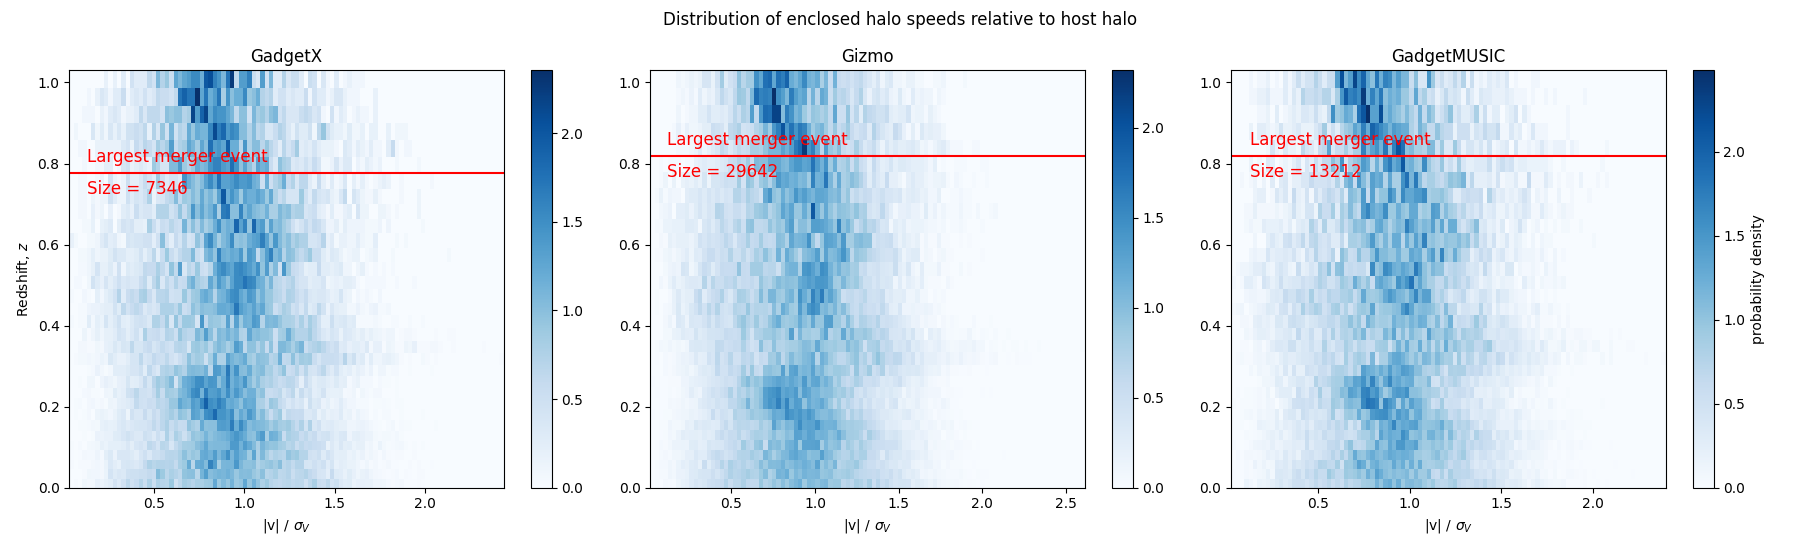
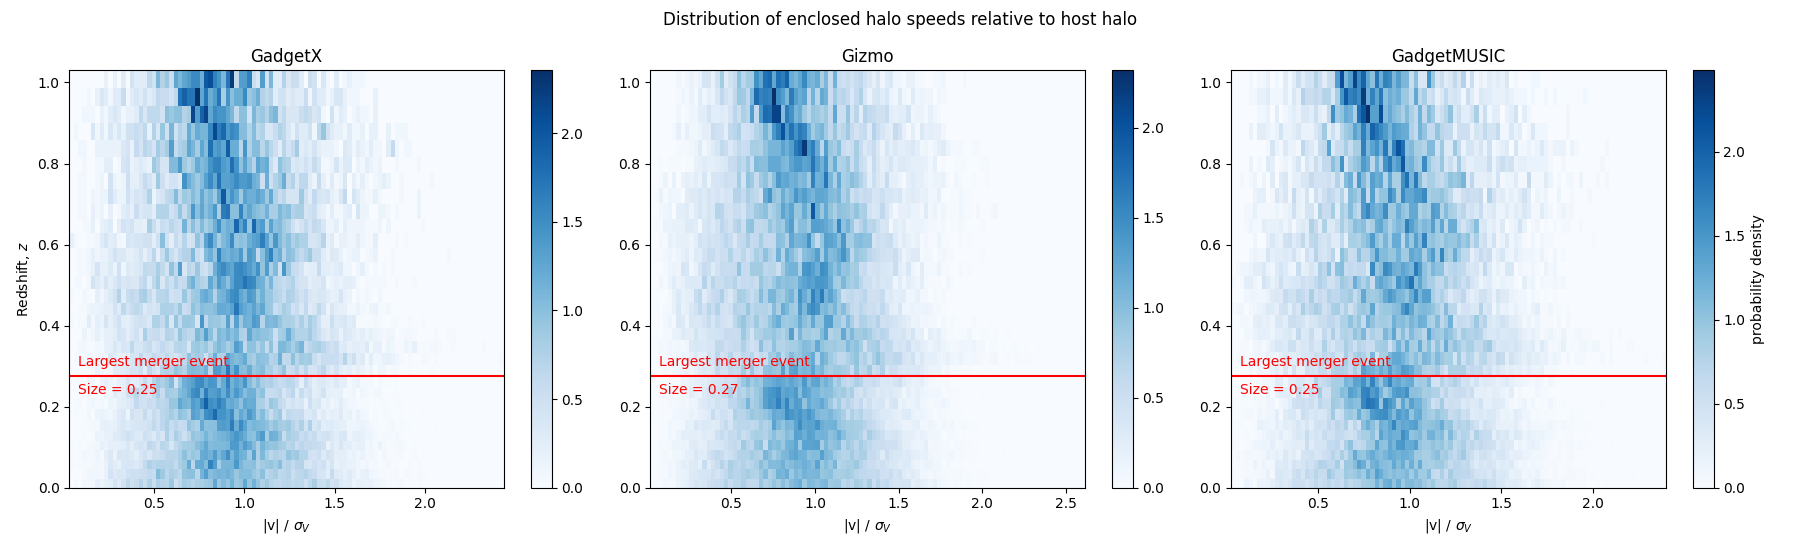
Updated figures with new merger detection

diff --git a/examples/zrPlot.py b/examples/zrPlot.py
@@ -7,6 +7,7 @@ import ahfhalotools.filetools as ft
 from ahfhalotools.objects import Cluster
 
 ## -----------Load Cluster Instances--------------##
+MERGER_THRESHOLD = 0.1
 
 #define base file name (these are for full files)
 fileNameBaseGX = "GadgetX-NewMDCLUSTER_0001.snap_{snap:0=3d}.z{z:.3f}"
@@ -84,27 +85,52 @@ for colIndex in range(3):
         if colIndex == 2:
             cbar.set_label("$\\log_{10}(\\; \\rho_{loc} \\; r^2 \\;)$")
 
-        #add merge line to plot
-        mergeZ,mergeSize = cluster.getLargestMergeZInRange(haloID,0,1)
-        #print(mergeSize)
+        # #add merge line to plot
+        # mergeZ,mergeSize = cluster.getLargestMergeZInRange(haloID,0,1)
+        # #print(mergeSize)
+        # mergeColor = 'k'
+        # ax1.add_line(Line2D(ax1.get_xlim(),[mergeZ,mergeZ],color=mergeColor))
+        # mergepad=5
+        # labelx = ax1.get_xlim()[0] + 0.1
+        # ax1.annotate('Largest merger event',xy=(labelx,mergeZ),xytext=(0,mergepad),xycoords="data",
+        #                textcoords="offset points", ha="left", va="bottom", c = mergeColor,
+        #                size='large')
+        # ax1.annotate('Size = {0}'.format(mergeSize), xy=(labelx,mergeZ),
+        #                xytext=(0,-mergepad), xycoords="data",
+        #                textcoords="offset points", ha="left", va="top", c = mergeColor,
+        #                size='large')
+
+        ## merge lines with threshold
         mergeColor = 'k'
-        ax1.add_line(Line2D(ax1.get_xlim(),[mergeZ,mergeZ],color=mergeColor))
-        mergepad=5
-        labelx = ax1.get_xlim()[0] + 0.1
-        ax1.annotate('Largest merger event',xy=(labelx,mergeZ),xytext=(0,mergepad),xycoords="data",
-                       textcoords="offset points", ha="left", va="bottom", c = mergeColor,
-                       size='large')
-        ax1.annotate('Size = {0}'.format(mergeSize), xy=(labelx,mergeZ),
-                       xytext=(0,-mergepad), xycoords="data",
+        mergeTextColor = 'limegreen'
+        mergelw = 1
+        labelxL = ax1.get_xlim()[0] + 0.1
+        labelxR = ax1.get_xlim()[1] - 0.1
+        #titley = ax1.get_ylim()[1] - 0.1
+        mergepad = 2
+        #get merge sizes
+        mergeZs, mergeSizes = cluster.getMergeZs(haloID,threshold=MERGER_THRESHOLD)
+        #plot lines
+        for i, (mergeZ, mergeSize) in enumerate(zip(mergeZs,mergeSizes)):
+            labelx = [labelxL,labelxR][i%2]
+            ha = ["left","right"][i%2]
+            ax1.axhline(mergeZ,c=mergeColor,lw=mergelw)
+            ax1.annotate('Size = {0:.2f}'.format(mergeSize), xy=(labelx,mergeZ),
+                           xytext=(0,-mergepad), xycoords="data",
+                           textcoords="offset points", ha=ha, va="top", c = mergeTextColor,
+                           size='small')
+        #plot merge title
+        ax1.annotate('Mergers > {0:.2f}'.format(MERGER_THRESHOLD), xy=(0.05,0.95),
+                       xytext=(0,0), xycoords="axes fraction",
                        textcoords="offset points", ha="left", va="top", c = mergeColor,
-                       size='large')
+                       size='medium')
 
 
 #label axes
 ax[0,0].set_title("GadgetX")
 ax[0,1].set_title("Gizmo")
 ax[0,2].set_title("GadgetMUSIC")
-[ax[1,i].set_xlabel("$\\log_{10}(r/kpc \\; h^{-1})$") for i in range(3)]
+[ax[1,i].set_xlabel("$\\log_{10}(\\; r \\; / \\; kpc \\; h^{-1} \\; )$") for i in range(3)]
 [ax[i,0].set_ylabel("Redshift, $z$") for i in range(2)]
 fig.suptitle("Local Density x Radius Squared as a function of z and r")
 

diff --git a/examples/velocityDistributionForEnclosedHalos.py b/examples/velocityDistributionForEnclosedHalos.py
@@ -85,13 +85,13 @@ for i in range(3):
     ax[i].add_line(Line2D(ax[i].get_xlim(),[mergeZ,mergeZ],c='r'))
     pad=5
     leftSide = ax[i].get_xlim()[0]
-    ax[i].annotate('Largest merger event',xy=(leftSide+0.1,mergeZ),xytext=(0,pad),xycoords="data",
+    ax[i].annotate('Largest merger event',xy=(leftSide+0.05,mergeZ),xytext=(0,pad),xycoords="data",
                    textcoords="offset points", ha="left", va="bottom", c = 'r',
-                   size='large')
-    ax[i].annotate('Size = {0}'.format(mergeSize), xy=(leftSide+0.1,mergeZ),
+                   size='medium')
+    ax[i].annotate('Size = {0:.2f}'.format(mergeSize), xy=(leftSide+0.05,mergeZ),
                    xytext=(0,-pad), xycoords="data",
                    textcoords="offset points", ha="left", va="top", c = 'r',
-                   size='large')
+                   size='medium')
 
     if PLOT_AVERAGES:
         avgvs = []

diff --git a/examples/vDistEncHalosWithSkewPlots.py b/examples/vDistEncHalosWithSkewPlots.py
@@ -93,13 +93,13 @@ for i in range(3):
     ax[iax].axhline(mergeZ,c='r')
     ax[iax-1].axhline(mergeZ,c='r')
     pad=5
-    ax[iax].annotate('Largest merger event',xy=(0.1,mergeZ),xytext=(0,pad),xycoords="data",
+    ax[iax].annotate('Largest merger event',xy=(0.05,mergeZ),xytext=(0,pad),xycoords="data",
                    textcoords="offset points", ha="left", va="bottom", c = 'r',
-                   size='large')
-    ax[iax].annotate('Size = {0}'.format(mergeSize), xy=(0.1,mergeZ),
+                   size='medium')
+    ax[iax].annotate('Size = {0:.2f}'.format(mergeSize), xy=(0.05,mergeZ),
                    xytext=(0,-pad), xycoords="data",
                    textcoords="offset points", ha="left", va="top", c = 'r',
-                   size='large')
+                   size='medium')
 
     #getting median and skewness
     medians = []

diff --git a/README.md b/README.md
@@ -28,5 +28,6 @@ For information on AMIGA's Halo Finder, including documentation and output file 
 
 ## Gallery
 ![Velocity Distribution of Enclosed Halo as a Function of Redshift](https://raw.githubusercontent.com/BenDavisonPetch/ahfhalotools/main/gallery/enclosedHalovDist.png)
+![Velocity Distribution of Enclosed Halo as a Function of Redshift with Skew Plots](https://raw.githubusercontent.com/BenDavisonPetch/ahfhalotools/main/gallery/enclosedHalovDistwSkewPlots.png)
 ![Local Density times Radius Squared as a function of z and r](https://raw.githubusercontent.com/BenDavisonPetch/ahfhalotools/main/gallery/localDensityZR.png)
 ![Local Density times Radius Squared as a function of z and r for select redshifts](https://raw.githubusercontent.com/BenDavisonPetch/ahfhalotools/main/gallery/selectzs.png)
